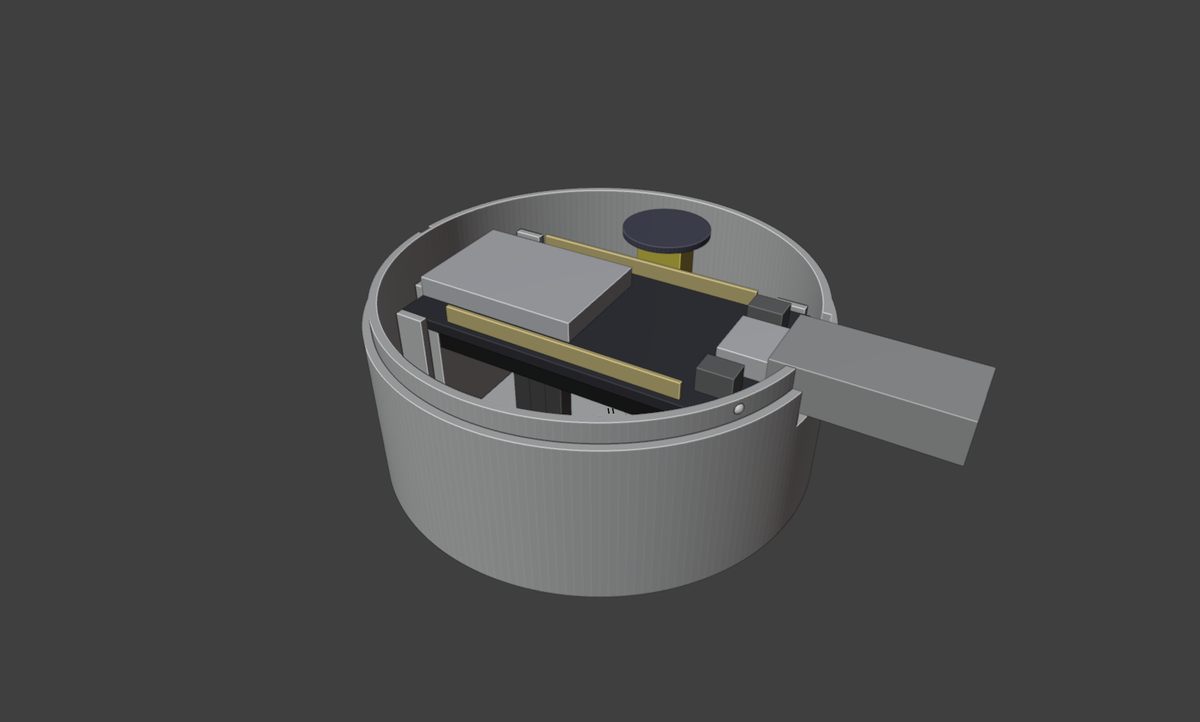
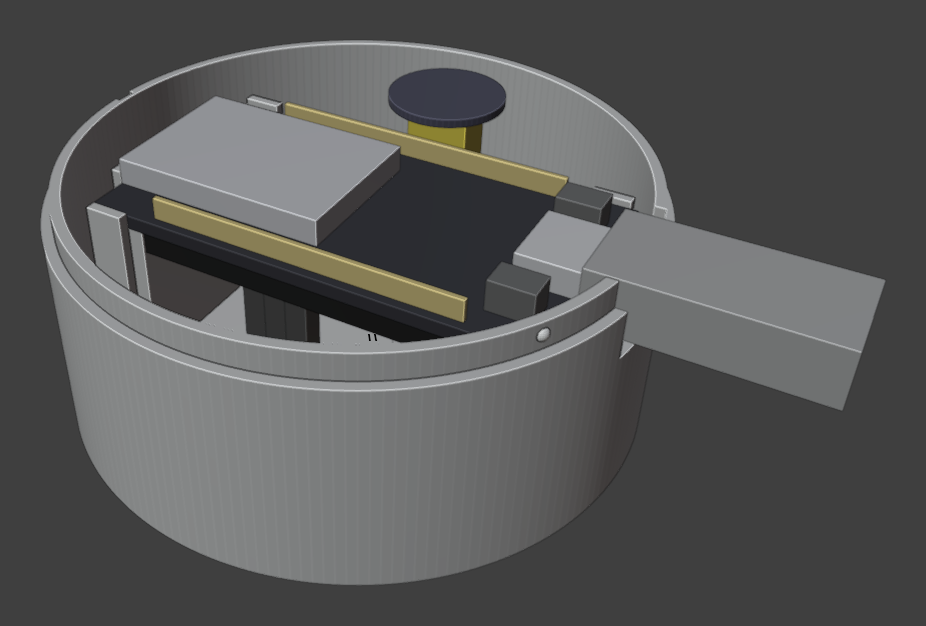
docs: make README architecture diagram and puck render easier to read

diff --git a/README.md b/README.md
@@ -82,7 +82,7 @@ Puck mulai merekam lewat tiga jalan: notifikasi panggilan masuk dari iPhone (ANC
 ## Arsitektur sistem
 
 ```mermaid
-flowchart LR
+flowchart TB
     subgraph Rumah["Di tangan orang tua"]
         IP["iPhone orang tua<br/>App Rambu (SwiftUI)"]
         PK["Puck<br/>ESP32 + INMP441"]
@@ -122,8 +122,8 @@ flowchart LR
 ## Puck (IoT)
 
 <p align="center">
-  <img src="assets/readme/puck-isi.png" alt="Isi casing puck: ESP32 DevKit dan mikrofon INMP441" width="40%">
-  <img src="assets/readme/puck-ukuran-iphone17.png" alt="Ukuran puck di punggung iPhone 17" width="56%">
+  <img src="assets/readme/puck-isi.png" alt="Isi casing puck: ESP32 DevKit dan mikrofon INMP441" width="44%">
+  <img src="assets/readme/puck-ukuran-iphone17.png" alt="Ukuran puck di punggung iPhone 17" width="52%">
 </p>
 
 Puck versi 3 (24 Oktober 2026) memakai casing cetak 3D berdiameter 66 mm dan tebal 30 mm. Isinya papan ESP32 DevKit V1 30 pin dengan USB-C dan mikrofon INMP441 yang menghadap lubang grill di tutup. Daya diambil dari iPhone atau charger lewat kabel USB-C. File cetak dan sumber Blender casing ada di [`hardware/enclosure/`](hardware/enclosure).
